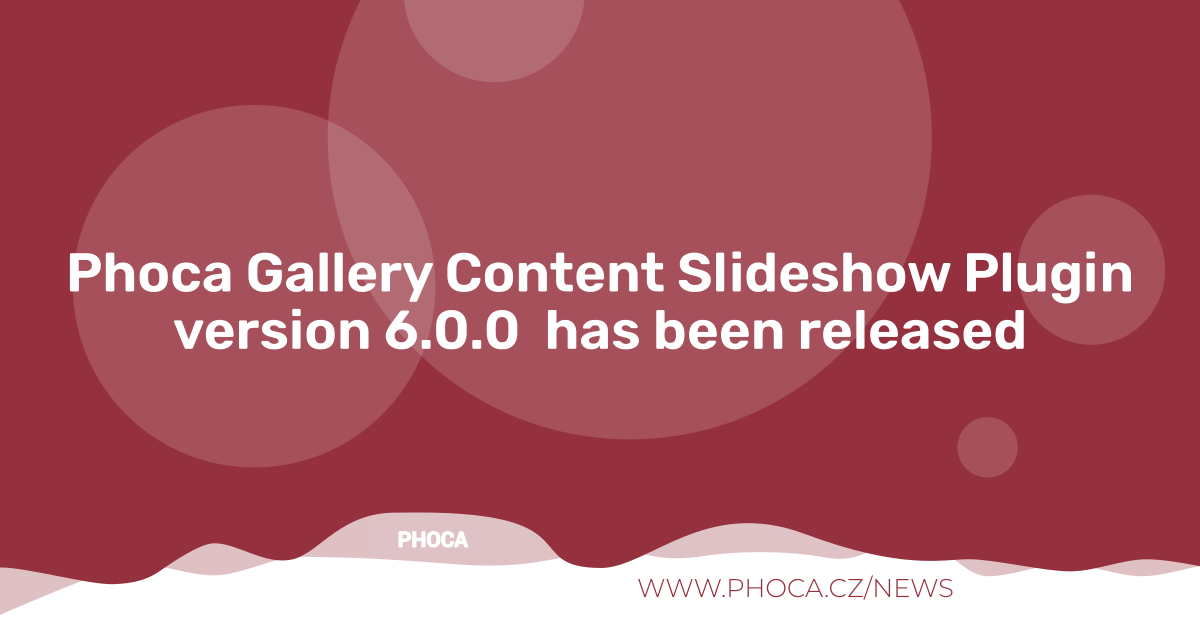
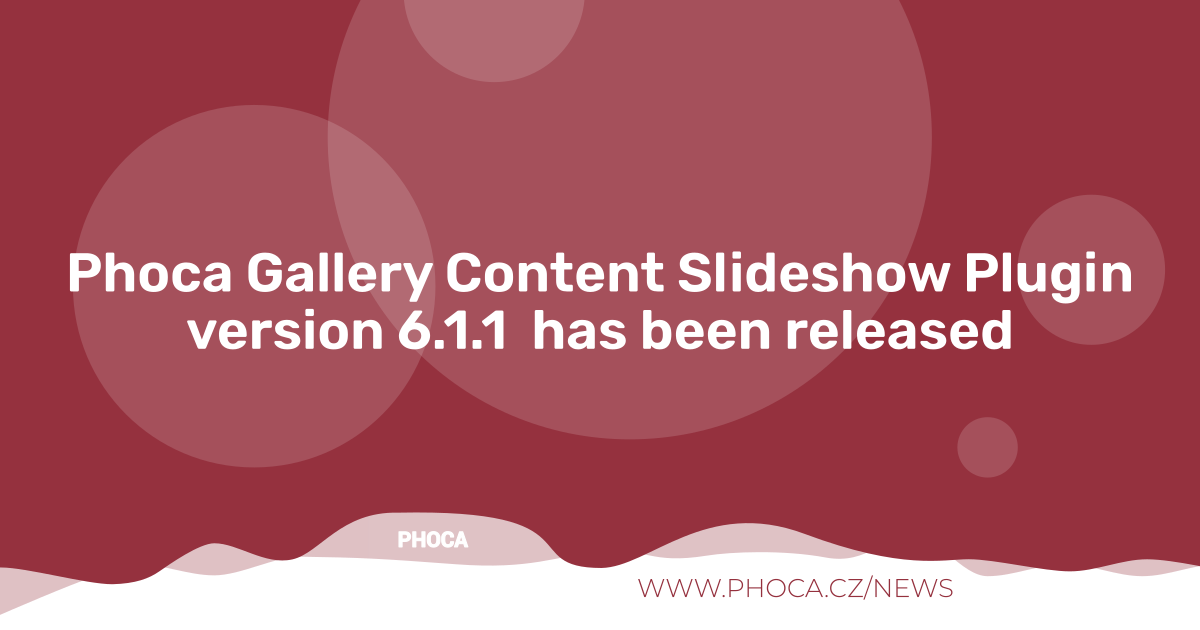
6.1.1

Changed region(s): [[0.1233, 0.4825, 0.8633, 0.573]]

diff --git a/README.MD b/README.MD
@@ -1,12 +1,101 @@
-# ⚠️ This Project is Officially Archived
 
-This repository has been archived and is no longer actively maintained, developed, or supported by the Phoca Open Source Community. 
 
-### ℹ️ Important Notice
-* **Historical Reference Only:** This repository is kept online strictly for educational and historical purposes. The code is provided "as is" without any express or implied warranties.
-* **No Production Releases:** All pre-compiled production packages and ready-to-install releases have been permanently removed. This code is not intended to be deployed on live websites.
-* **No Security Updates:** No future security patches, bug fixes, or compatibility updates for newer Joomla versions will be provided.
 
-Thank you to everyone who contributed to this project over the years. 
 
-👉 If you have any questions, please visit the Phoca Forum: https://www.phoca.cz/forum
+![Phoca Gallery Content Slideshow Plugin](https://github.com/PhocaCz/PhocaGalleryContentSlideshowPlugin/blob/master/phocagalleryslideshow.png?raw=true)
+
+# Phoca Gallery Content Slideshow Plugin
+
+
+
+## Phoca Gallery Content Slideshow Plugin — Community-Driven Extension for Joomla CMS
+
+Phoca Gallery Content Slideshow Plugin is a Joomla! plugin which displays slideshow of images from selected Phoca Gallery category in an article content.
+
+### Free and Open Source Software (FOSS) Declaration
+
+This project is developed, distributed, and maintained strictly as **Free and Open Source Software (FOSS)**. It is provided entirely outside the course of any commercial activity as an independent public resource.
+
+Our compliance with the principles of free and open-source software is established by the following structural and operational guidelines:
+
+* **Strictly Non-Commercial & Public Good:** This software is provided 100% free of charge. No commercial entities control or fund this repository, and there are no commercial monetization models, paid subscriptions, or premium paywalls associated with this codebase.
+* **Independent Volunteer Contributions:** The development, maintenance, and testing of this extension are driven entirely by independent, voluntary contributions from the global community.
+* **No Commercial Technical Support:** Technical support is not provided as a paid commercial service by the maintainers of this repository. Community assistance is available on a voluntary, non-binding basis via public forums.
+* **No Proprietary Lock-in:** The software is licensed under the copyleft GNU General Public License (GPL). You have absolute freedom to run, study, share, modify, and redistribute the code.
+* **Decentralized Infrastructure:** This codebase is hosted in a public, transparent repository on GitHub to foster open collaborative development and public peer review, ensuring safety and quality through community vigilance.
+
+*This repository is a shared community resource dedicated to the global open-source ecosystem.*
+
+
+
+## Project page
+
+[Phoca Gallery Content Slideshow Plugin](https://www.phoca.cz/phocagallery-slideshow-plugin)
+
+[Phoca Gallery Info Page](https://www.phoca.cz/project/phocagallery-joomla-gallery)
+
+
+
+## Documentation
+
+[Documentation](https://www.phoca.cz/documentation/category/19-phoca-gallery-slideshow-plugin)
+
+
+
+
+
+## Support
+
+[Phoca Forum](https://www.phoca.cz/forum)
+
+:bell: [Phoca Forum RSS](https://www.phoca.cz/forum/app.php/feed)
+
+
+
+## News
+
+[Phoca News](https://www.phoca.cz/news)
+
+:bell: [Phoca News RSS](https://www.phoca.cz/news?format=feed&type=rss)
+
+:bell: [Phoca Latest Releases RSS](https://www.phoca.cz/download/feed/111?format=feed&type=rss)
+
+
+
+## Demo
+
+[Joomla! 1.5 Demo](https://www.phoca.cz/demo/)
+
+
+
+## Version (Joomla! 4.x)
+
+4.4.0
+
+## Version (Joomla! 5.x)
+
+6.1.1
+
+
+
+## License
+
+GNU/GPL
+
+
+
+This project is open source project - feel free to contribute! Thank you.
+
+
+
+## Social Media
+
+- [Phoca on Facebook](https://www.facebook.com/Phoca.cz)
+
+- [Phoca on X (Twitter)](https://twitter.com/PhocaCz)
+
+- [Phoca on YouTube](https://www.youtube.com/user/phocavideos)
+
+- [Phoca on GitHub](https://github.com/PhocaCz)
+
+- [Phoca on Reddit](https://www.reddit.com/user/PhocaCz)

diff --git a/FOSS.md b/FOSS.md
@@ -1,0 +1,13 @@
+Free and Open Source Software (FOSS) Declaration
+
+This project is developed, distributed, and maintained strictly as **Free and Open Source Software (FOSS)**. It is provided entirely outside the course of any commercial activity as an independent public resource.
+
+Our compliance with the principles of free and open-source software is established by the following structural and operational guidelines:
+
+* **Strictly Non-Commercial & Public Good:** This software is provided 100% free of charge. No commercial entities control or fund this repository, and there are no commercial monetization models, paid subscriptions, or premium paywalls associated with this codebase.
+* **Independent Volunteer Contributions:** The development, maintenance, and testing of this extension are driven entirely by independent, voluntary contributions from the global community.
+* **No Commercial Technical Support:** Technical support is not provided as a paid commercial service by the maintainers of this repository. Community assistance is available on a voluntary, non-binding basis via public forums.
+* **No Proprietary Lock-in:** The software is licensed under the copyleft GNU General Public License (GPL). You have absolute freedom to run, study, share, modify, and redistribute the code.
+* **Decentralized Infrastructure:** This codebase is hosted in a public, transparent repository on GitHub to foster open collaborative development and public peer review, ensuring safety and quality through community vigilance.
+
+*This repository is a shared community resource dedicated to the global open-source ecosystem.*